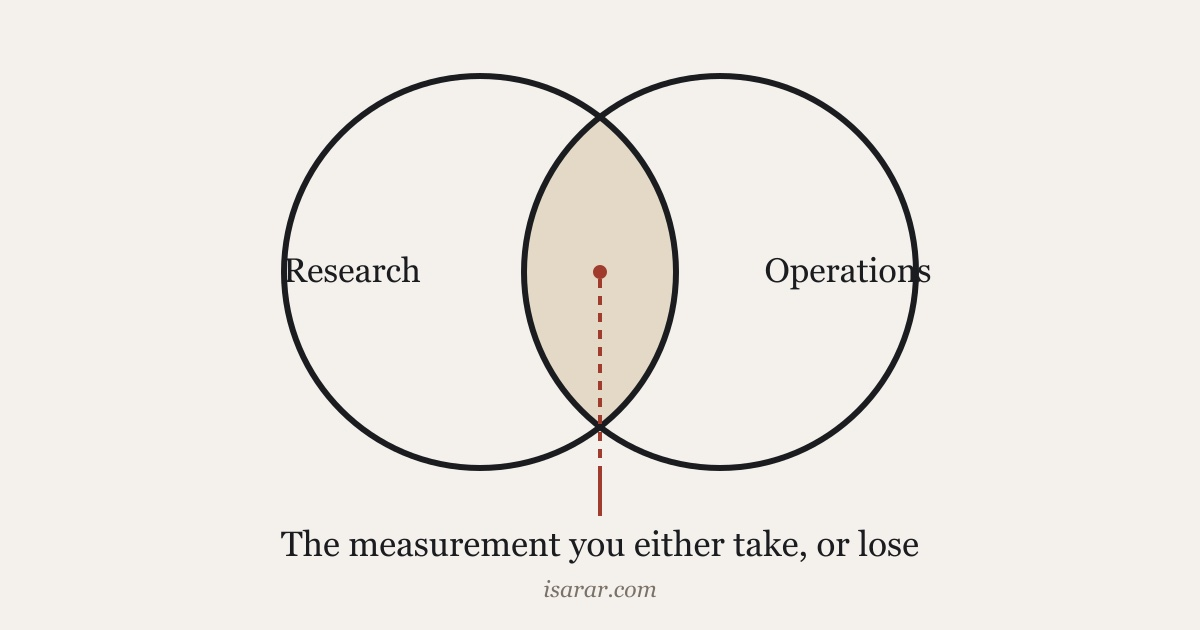
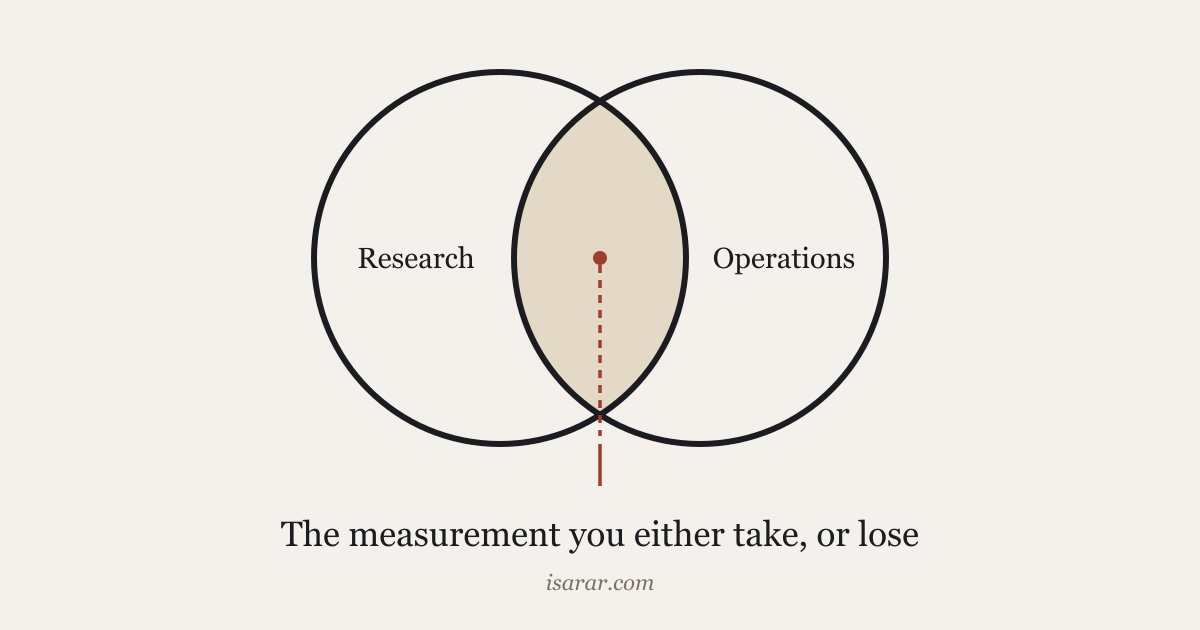
Expand the operations post and fix the diagram
Adds a section on what separating operations from research actually costs.
The point I had not made before: throughput pressure produces non-random
missingness that flatters the model, because the sessions that get abandoned
are the slow ones and slow participants sit nearest the decision boundary.
Also recruitment fixing the confound structure before any feature exists,
which is a sampling problem no covariate repairs, and silent protocol drift.

Diagram: the Operations label overflowed the right circle. Labels moved
inward and resized, verified geometrically against the chord at that height.

915 to 1337 words, all of it argument. No biographical detail added, because
two rounds of search found nothing about her and the alternative would have
been padding the post with facts about Bhutan dressed as facts about her.

diff --git a/blog/operations-is-where-the-science-survives/index.html b/blog/operations-is-where-the-science-survives/index.html
@@ -58,7 +58,7 @@ if(t==="dark"||t==="light")document.documentElement.setAttribute("data-theme",t)
   "mainEntityOfPage": "https://isarar.com/blog/operations-is-where-the-science-survives/",
   "articleSection": "Field notes",
   "keywords": ["clinical trials", "research operations", "team", "study design"],
-  "timeRequired": "PT5M",
+  "timeRequired": "PT7M",
   "isAccessibleForFree": true,
   "inLanguage": "en",
   "about": [
@@ -105,7 +105,7 @@ if(t==="dark"||t==="light")document.documentElement.setAttribute("data-theme",t)
 <article class="post-wrap">
   <p class="crumb"><a href="/">Home</a> / <a href="/blog/">Writing</a></p>
   <h1>Operations is where the science survives</h1>
-  <p class="by"><time datetime="2026-08-31">31 August 2026</time> &nbsp;·&nbsp; 5 min read</p>
+  <p class="by"><time datetime="2026-08-31">31 August 2026</time> &nbsp;·&nbsp; 7 min read</p>
   <figure class="cover">
     <img src="/og-ops.jpg" alt="Two overlapping circles labelled research and operations, the intersection captioned the measurement you either take or lose"
          width="1200" height="630" loading="eager" decoding="async">
@@ -155,9 +155,53 @@ if(t==="dark"||t==="light")document.documentElement.setAttribute("data-theme",t)
     including the ones that lengthen the queue. That tension has to live inside one head,
     or it becomes an argument between two departments and the queue wins.
   </p>
+
+  <h2>What separating them actually costs</h2>
   <p>
-    That is the job, and it is why research and operations sit with the same person here
-    rather than in two boxes on an org chart.
+    Three failures, in rough order of how badly they hurt and inverse order of how visible
+    they are.
+  </p>
+  <p>
+    <b>Throughput pressure produces missingness that flatters you.</b> This is the one I
+    find most alarming, because the incentive runs the wrong way and the damage looks like
+    success. When a clinic is under time pressure, the sessions that get abandoned are the
+    slow ones. The slow ones are slow for reasons: the participant is frailer, more
+    impaired, harder to instruct, cannot hear the prompt. So the people who drop out are
+    systematically the people nearest the decision boundary, and removing them makes the
+    remaining problem easier. Your numbers improve. Nothing about the tool improved. A
+    dropout log that records only a count, rather than who dropped and at which task, will
+    never show you this, and most studies keep exactly that kind of log.
+  </p>
+  <p>
+    <b>Recruitment fixes the confound structure before any feature exists.</b> Who walks
+    through the door decides what correlates with your outcome. If participants arrive
+    through a route that is enriched for one comorbidity, that comorbidity becomes
+    associated with the label before a single number is computed, and no covariate added in
+    analysis repairs it, because it is a sampling problem rather than a measurement one.
+    That distinction is easy to state and easy to lose, and the person who can see it
+    coming is the person designing the recruitment path, not the person who receives the
+    dataset three months later.
+  </p>
+  <p>
+    <b>Protocol drift is silent and cumulative.</b> Over months, a coordinator solving
+    practical problems makes analysis decisions without knowing they are analysis
+    decisions. This participant could not manage the drawing task, so skip it. That room
+    was noisy, so use the other one. Each choice is locally sensible and each one changes
+    the data generating process. Unless the deviation is recorded as a deviation, the
+    dataset quietly contains two different studies stapled together, and you will find out
+    when a subgroup behaves inexplicably and you cannot reconstruct why.
+  </p>
+  <p>
+    A fourth, smaller one worth naming: the decision to reject a bad capture has to be
+    made at capture. Our hardware abstains on a channel when contact impedance is poor
+    rather than emitting a number the model will treat as real, and the same logic applies
+    to a human operator. If nobody declines the unusable recording in the room, it enters
+    the dataset with the same status as a good one.
+  </p>
+  <p>
+    None of these are caught by better analysis. They are all decided in the corridor, on
+    the day, by whoever is standing there. That is why research and operations sit with
+    the same person here rather than in two boxes on an org chart.
   </p>
 
   <h2>What she brings to it</h2>

diff --git a/blog/index.html b/blog/index.html
@@ -81,8 +81,8 @@ if(t==="dark"||t==="light")document.documentElement.setAttribute("data-theme",t)
             <span class="when"><time datetime="2026-08-31">31 Aug 2026</time></span>
             <span>
               <span class="ft">Operations is where the science survives</span>
-              <p class="fx">Trial logistics is research design wearing a different hat. A covariate you failed to measure has no later substitute, which is why research and operations sit with one person at Biotech Wallah. Jamyang Ugyen Tshomo has joined as Chief Operating Officer and now owns both.</p>
-              <span class="read">5 min read</span>
+              <p class="fx">Trial logistics is research design wearing a different hat. Three ways a study quietly stops being valid in the corridor: throughput pressure produces missingness that flatters you, recruitment fixes the confound structure before any feature exists, and protocol drift is silent and cumulative. Jamyang Ugyen Tshomo has joined Biotech Wallah as Chief Operating Officer, owning research and operations together.</p>
+              <span class="read">7 min read</span>
             </span>
           </a>
         </li>
